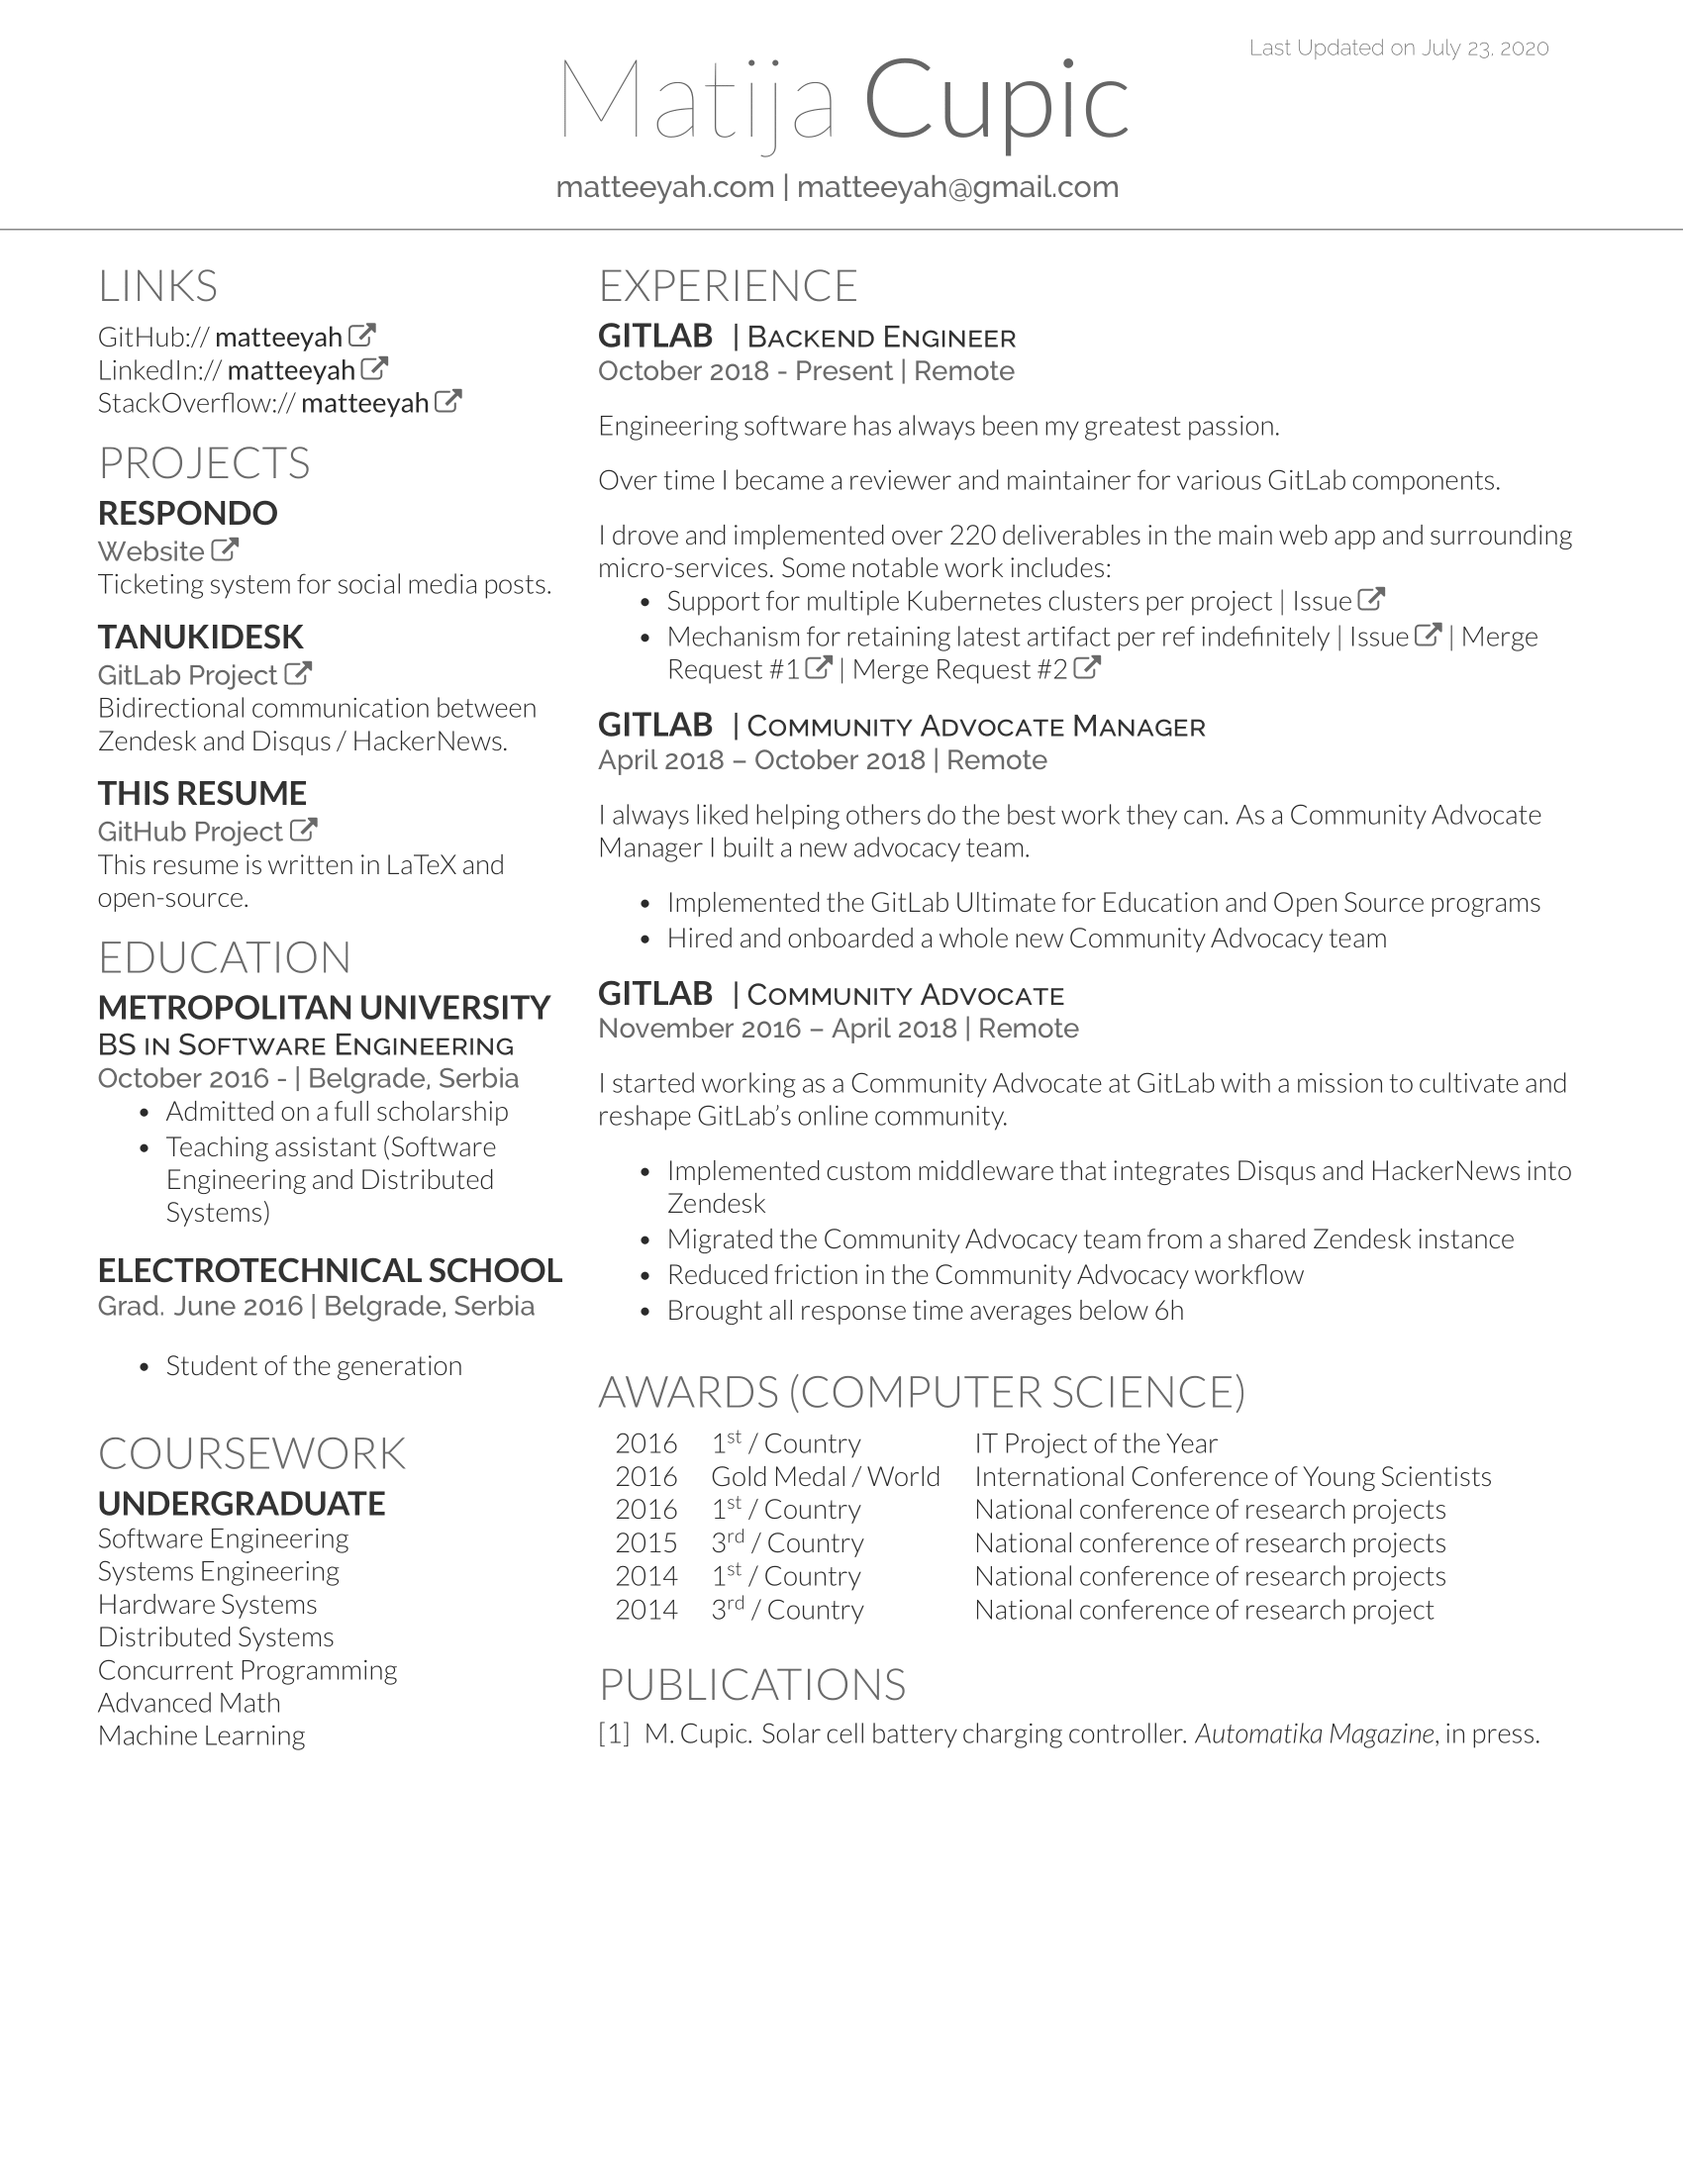
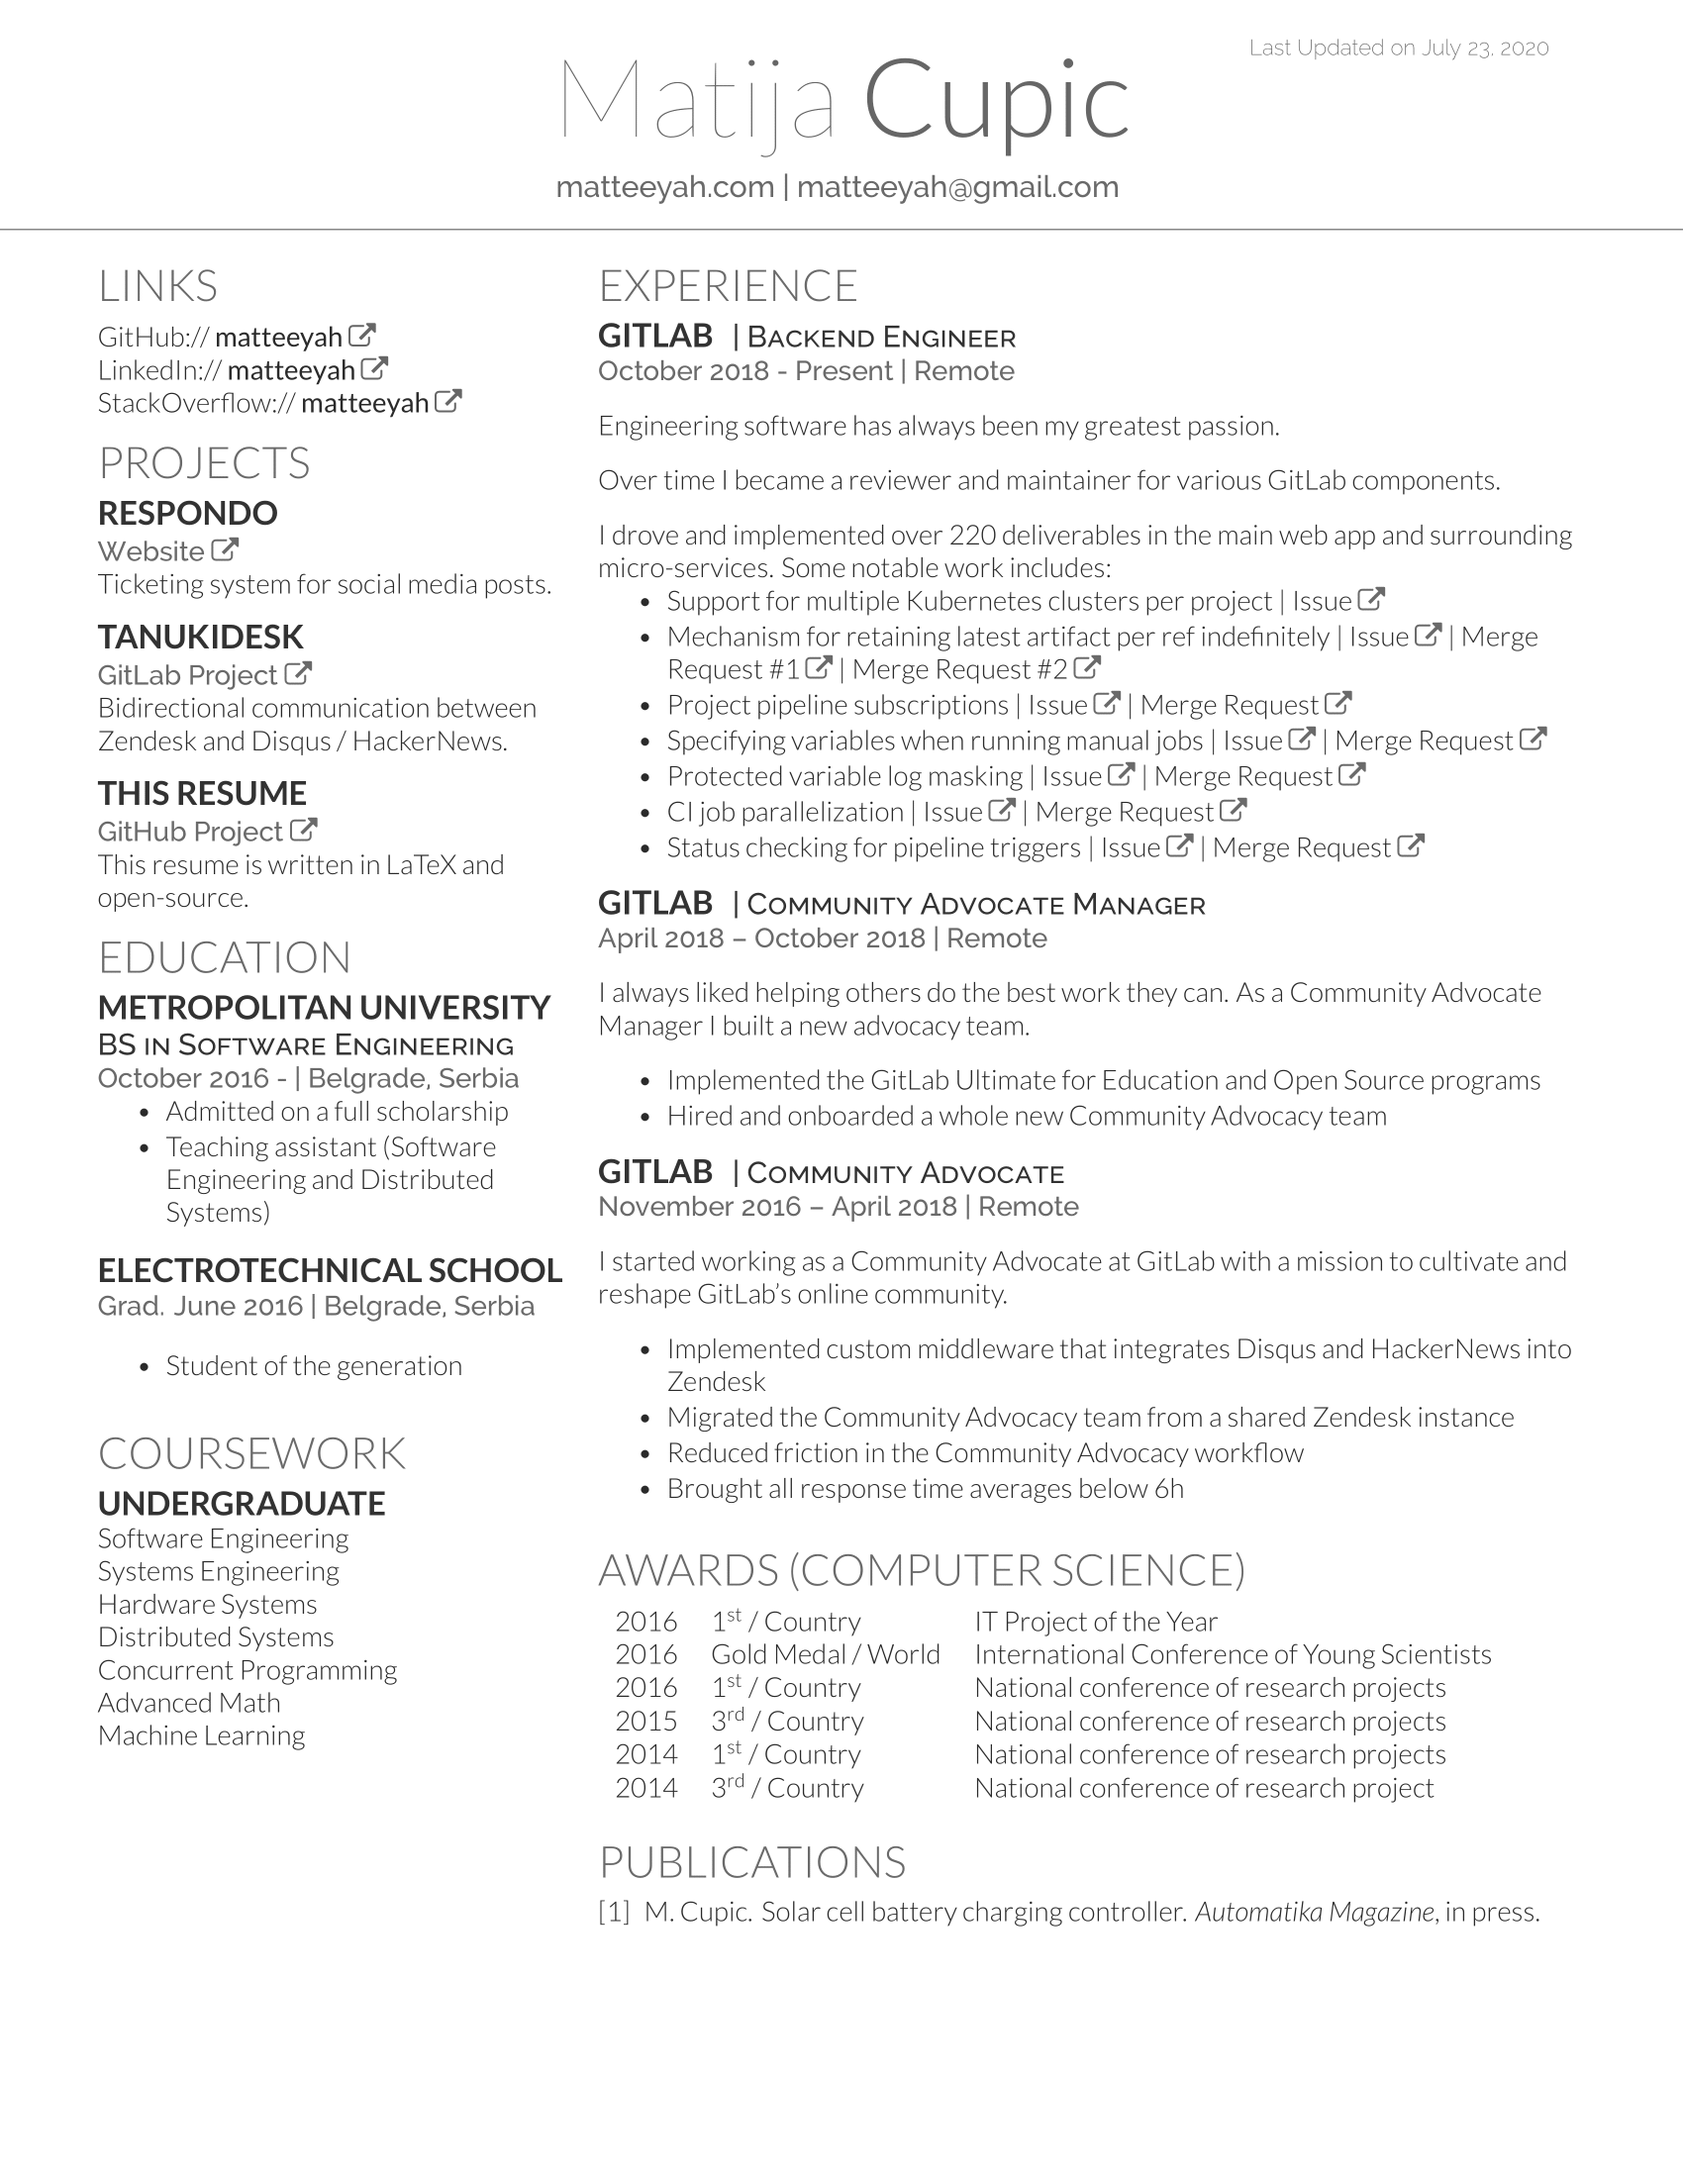
Add notable issues to engineering experience

Changed region(s): [[0.3429, 0.3091, 0.9041, 0.8655]]

diff --git a/matija-resume.tex b/matija-resume.tex
@@ -149,6 +149,11 @@ I drove and implemented over 220 deliverables in the main web app and surroundin
 \begin{tightemize}
 \item Support for multiple Kubernetes clusters per project | \href{https://gitlab.com/gitlab-org/gitlab/-/issues/3734}{Issue \faicon{external-link}}
 \item Mechanism for retaining latest artifact per ref indefinitely | \href{https://gitlab.com/gitlab-org/gitlab/-/issues/16267}{Issue \faicon{external-link}} | \href{https://gitlab.com/gitlab-org/gitlab/-/merge_requests/29802}{Merge Request \#1 \faicon{external-link}} | \href{https://gitlab.com/gitlab-org/gitlab/-/merge_requests/30741}{Merge Request \#2 \faicon{external-link}}
+\item Project pipeline subscriptions | \href{https://gitlab.com/gitlab-org/gitlab/-/issues/9045}{Issue \faicon{external-link}} | \href{https://gitlab.com/gitlab-org/gitlab/-/merge_requests/20063}{Merge Request \faicon{external-link}}
+\item Specifying variables when running manual jobs | \href{https://gitlab.com/gitlab-org/gitlab-foss/-/issues/24935}{Issue \faicon{external-link}} | \href{https://gitlab.com/gitlab-org/gitlab-foss/-/merge_requests/30485}{Merge Request \faicon{external-link}}
+\item Protected variable log masking | \href{https://gitlab.com/gitlab-org/gitlab-foss/-/issues/13784}{Issue \faicon{external-link}} | \href{hhttps://gitlab.com/gitlab-org/gitlab-foss/-/merge_requests/25293}{Merge Request \faicon{external-link}}
+\item CI job parallelization | \href{https://gitlab.com/gitlab-org/gitlab-foss/-/issues/21480}{Issue \faicon{external-link}} | \href{https://gitlab.com/gitlab-org/gitlab-foss/-/merge_requests/22631}{Merge Request \faicon{external-link}}
+\item Status checking for pipeline triggers | \href{https://gitlab.com/gitlab-org/gitlab/-/issues/11238}{Issue \faicon{external-link}} | \href{https://gitlab.com/gitlab-org/gitlab/-/merge_requests/15580}{Merge Request \faicon{external-link}}
 \end{tightemize}
 \sectionsep
 
